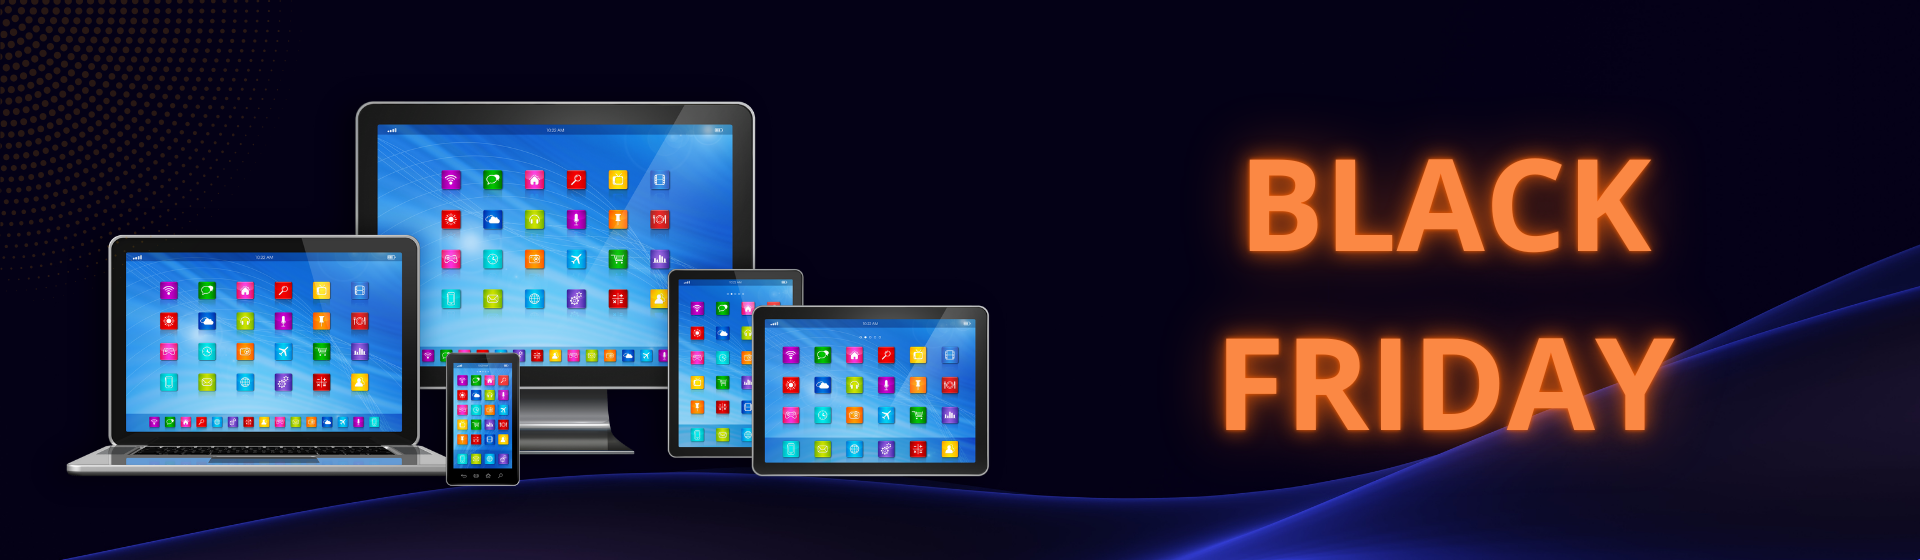
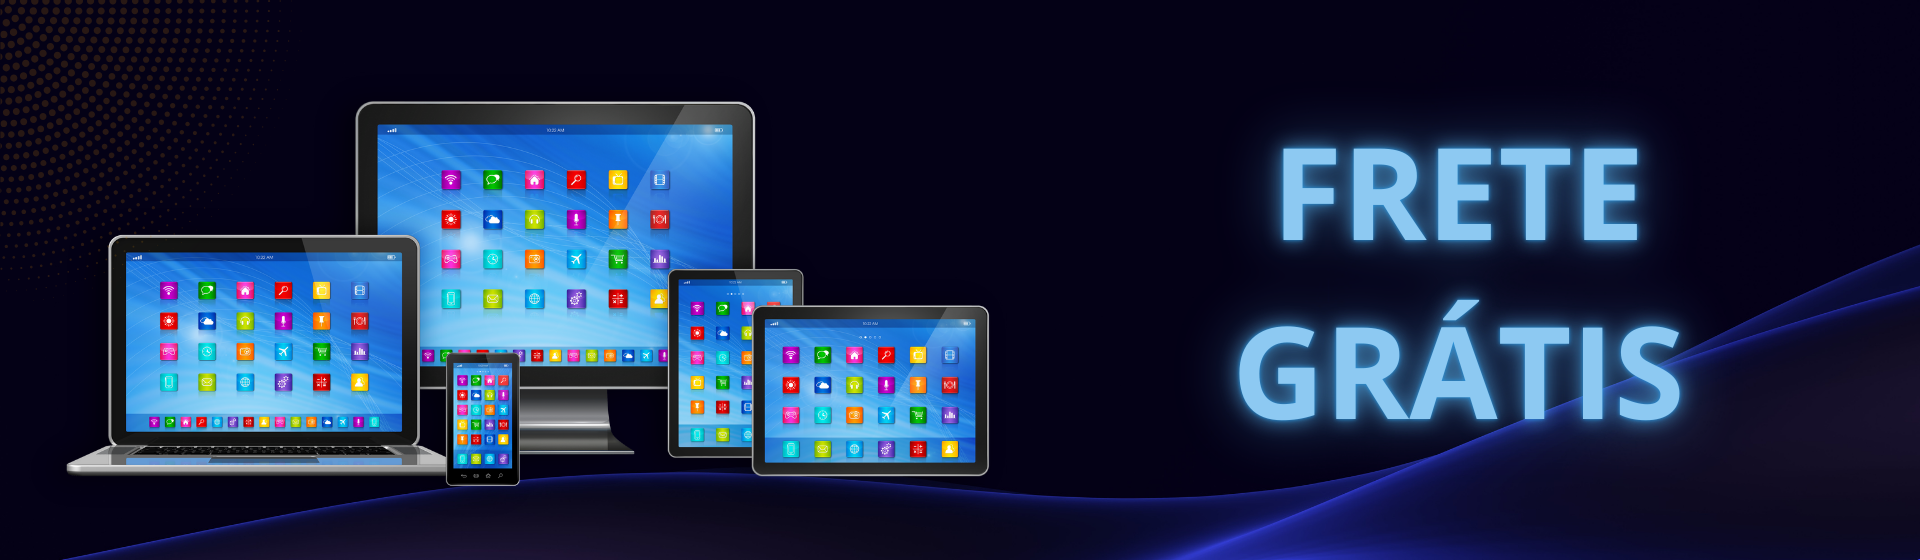
front

Changed region(s): [[0.625, 0.5161, 0.9062, 0.8196], [0.625, 0.2125, 0.875, 0.4857]]

diff --git a/styles.css b/styles.css
@@ -1,22 +1,29 @@
-/* styles.css */
-
 body {
     font-family: Arial, sans-serif;
     margin: 0;
     padding: 0;
-    line-height: 1.6;
 }
 
 .header {
-    background-color: #333;
-    color: #fff;
-    padding: 1em 0;
-    text-align: center;
+    display: flex; /* Flexbox para alinhar os itens */
+    justify-content: space-between; /* Coloca a logo à esquerda e os links à direita */
+    align-items: center; /* Alinha os itens verticalmente no centro */
+    background-color: #0e132e;
+    padding: 0em 2em;
+}
+
+.header .logo img {
+    width: 200px; /* Ajuste o tamanho da logo conforme necessário */
+}
+
+
+.header nav {
+    display: flex; /* Flexbox para os links do menu */
 }
 
 .header nav a {
     color: #fff;
-    margin: 0 1em;
+    margin-left: 1em; /* Espaço entre os links */
     text-decoration: none;
     font-size: 1.2em;
 }
@@ -26,7 +33,23 @@ body {
 }
 
 main {
-    padding: 1em;
+    padding: 3px 0 0 0;
+}
+
+.banner {
+    width: 100vw; /* Ocupa 100% da largura da janela do navegador */
+    height: auto; /* Ajusta a altura automaticamente */
+    margin: 0; /* Remove margens */
+    padding: 0; /* Remove padding */
+    display: flex; /* Garante que o conteúdo interno se ajuste */
+    justify-content: center; /* Centraliza o conteúdo horizontalmente */
+    align-items: center; /* Centraliza o conteúdo verticalmente */
+}
+
+.banner img {
+    width: 100%; /* Ajusta a imagem para caber no banner */
+    height: auto; /* Mantém a proporção da imagem */
+    display: block; /* Remove espaçamento abaixo da imagem */
 }
 
 .carrinho, .pedidos {
@@ -34,26 +57,36 @@ main {
 }
 
 .produtos {
-    display: grid; /* Ativa o layout em grade */
-    grid-template-columns: repeat(2, 1fr); /* Cria duas colunas de tamanhos iguais */
-    gap: 1em; /* Espaçamento horizontal e vertical entre os produtos */
+    display: flex; /* Ativa o layout em grade */
+    justify-content: space-between;
+    flex-wrap: wrap;
+}
+.produto {
+    width: 46%;
 }
 .produtos h2, .carrinho h2, .pedidos h2 {
-    border-bottom: 2px solid #333;
+    border-bottom: 2px solid #000000;
     margin-bottom: 1em;
 }
 
 .produto, .item-carrinho, .pedido {
-    border: 1px solid #ddd;
+    border: 3px solid #ddd;
     border-radius: 5px;
     padding: 1em;
     margin: 1em 0;
 }
 
+.img-produto {
+    width: 300px; /* Define uma largura fixa */
+    height: 200px; /* Define uma altura fixa */
+}
 
 .produto img {
-    max-width: 150px;
     margin-right: 1em;
+    width: 100%; /* Ajuste o tamanho da logo conforme necessário  */
+    height: 100%;
+    object-fit: contain; /* Ajusta a imagem para preencher o espaço, cortando se necessário */
+    border-radius: 5px; /* (Opcional) Adiciona cantos arredondados */
 }
 
 .produto h3{
@@ -71,7 +104,7 @@ main {
     font-weight: bold;
 }
 button {
-    background-color: #e98604;
+    background-color: #0e132e;
     color: #fff;
     border: none;
     padding: 0.7em 1.2em;
@@ -80,7 +113,7 @@ button {
 }
 
 button:hover {
-    background-color: #e99c38;
+    background-color: #27347e;
 }
 
 .total {
@@ -88,7 +121,7 @@ button:hover {
 }
 
 .footer {
-    background-color: #333;
+    background-color: #0e132e;
     color: #fff;
     text-align: center;
     padding: 1em 0;

diff --git a/index.html b/index.html
@@ -3,48 +3,56 @@
 <head>
     <meta charset="UTF-8">
     <meta name="viewport" content="width=device-width, initial-scale=1.0">
-    <title>E-commerce</title>
+    <title>Loja Fran & Pedro</title>
     <link rel="stylesheet" href="styles.css">
 </head>
 <body>
     <header class="header">
-        <h1>Lojinha Fran & Pedro</h1>
+                <div class="logo">
+            <img src="logo2.png" alt="Logo Loja Fran & Pedro">
+        </div>
         <nav>
-            <a href="#produtos">Produtos</a>
-            <a href="#carrinho">Carrinho</a>
             <a href="#pedidos">Pedidos</a>
+            <a href="#carrinho">Carrinho</a>
         </nav>
     </header>
 
     <main>
+
+        <!-- Seção de produtos -->
+        <div class="banner">
+            <img src="banner.png" alt="Frete Grátis">
+        </div>
+        <section id="produtos" class="produtos">
             <div class="produto">
-                <img src="teclado2.png" alt="Teclado Mecânico">
+                <div class="img-produto"><img src="teclado2.png" alt="Teclado Mecânico"></div>
                 <h3>Teclado Mecânico</h3>
                 <p>Para os gamers que procuram deixar o máximo de espaço possível sobre a mesa pois possui em layout compacto.</p>
                 <p class="preco">R$ 199,75</p>
                 <button class="adicionar-carrinho">Adicionar ao carrinho</button>
             </div>
             <div class="produto">
-                <img src="mouse2.png" alt="Mouse Gamer">
+                <div class="img-produto"><img src="mouse2.png" alt="Mouse Gamer"></div>
                 <h3>Mouse Gamer</h3>
                 <p>Redragon Mouse para jogos M913 Impact Elite, mouse gamer RGB com fio/sem fio 16000 DPI com 16 botões programáveis.</p>
                 <p class="preco">R$ 879,00</p>
                 <button class="adicionar-carrinho">Adicionar ao carrinho</button>
             </div>
             <div class="produto">
-                <img src="monitor.png" alt="Monitor Full HD">
+                <div class="img-produto"><img src="monitor.png" alt="Monitor Full HD"></div>
                 <h3>Monitor Full HD</h3>
                 <p>Com seu design diferenciado, tela plana de 21.45" Full HD 1920x1080 e bordas super finas.</p>
                 <p class="preco">R$ 1450,00</p>
                 <button class="adicionar-carrinho">Adicionar ao carrinho</button>
             </div>
             <div class="produto">
-                <img src="headset.png" alt="Headset">
+                <div class="img-produto"><img src="headset.png" alt="Headset"></div>
                 <h3>Headset</h3>
                 <p>Headset com fio USB Logitech H390 com Almofadas Confortáveis, Controles de Áudio Integrado e Microfone com Redução de Ruído</p>
                 <p class="preco">R$ 110,00</p>
                 <button class="adicionar-carrinho">Adicionar ao carrinho</button>
             </div>
+        </section>
 
         <!-- Seção do carrinho -->
         <section id="carrinho" class="carrinho">
@@ -73,7 +81,8 @@
     </main>
 
     <footer class="footer">
-        <p>&copy; 2024 Loja Virtual. Todos os direitos reservados.</p>
+        <p>&copy; Loja Fran & Pedro
+        </p>
     </footer>
 </body>
 </html>
